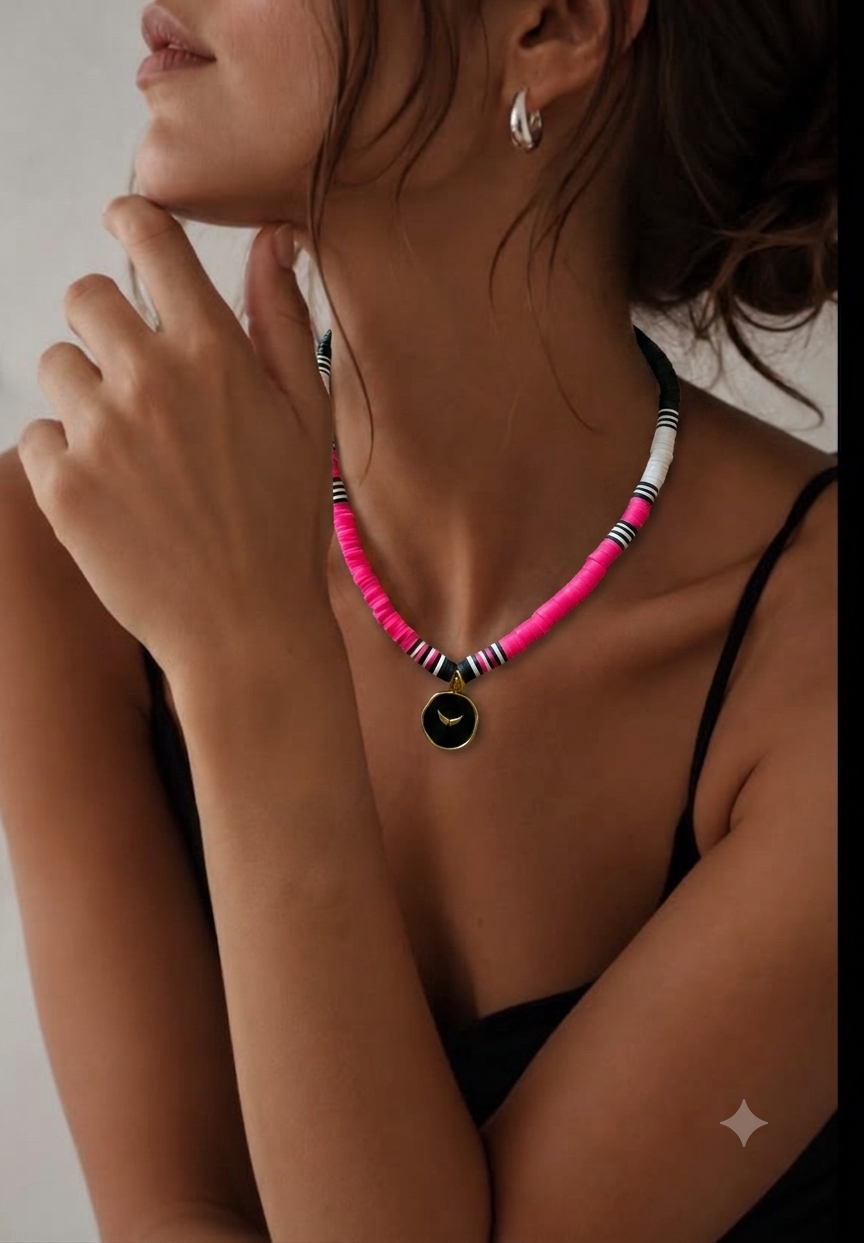
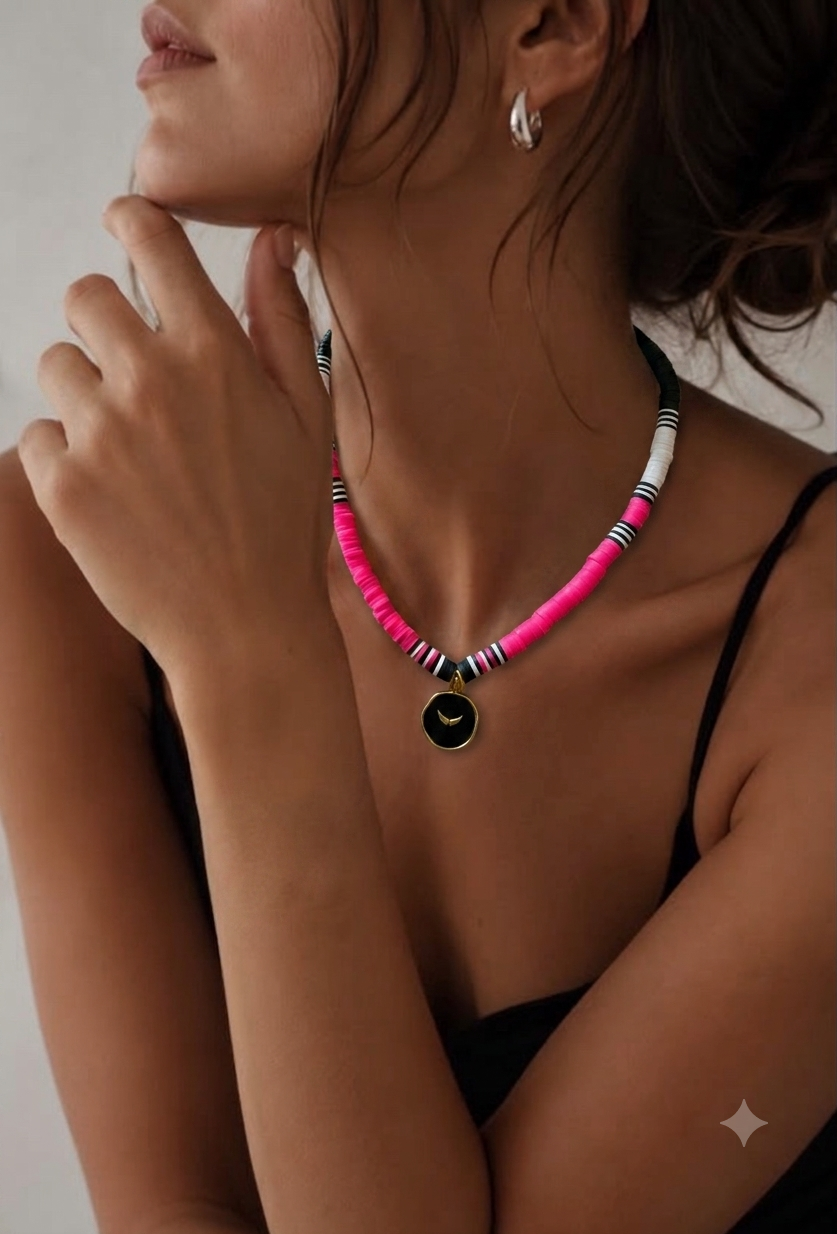
Add files via upload

diff --git a/files/index.html b/files/index.html
@@ -459,7 +459,7 @@
     <section class="section" id="shop">
       <div class="section-head">
         <h2>Shop the collection</h2>
-        <p style="margin:0;max-width:38ch;">If you have any questions DM us on instagram @accsesorize2026<code>script.js</code>.</p>
+        <p style="margin:0;max-width:38ch;">If you have any questions DM us on instagram @accsesorize2026</code></p>
       </div>
       <div class="product-grid" id="product-grid">
         <!-- Product cards are rendered here by script.js -->
